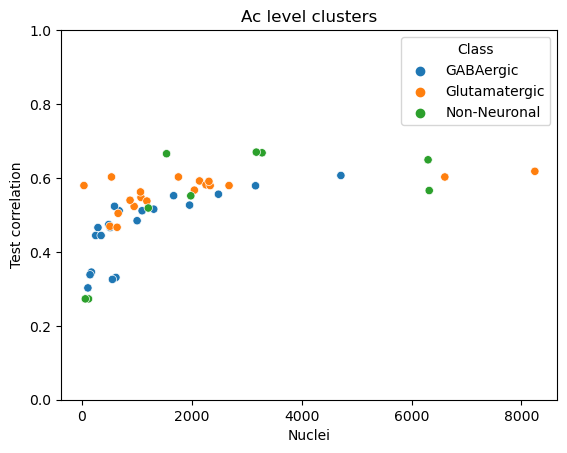
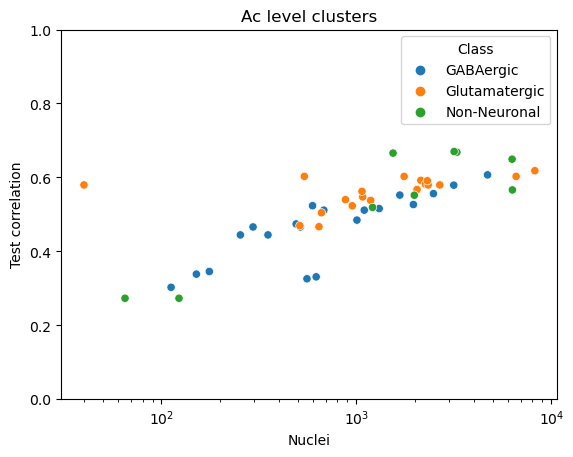
analyse cluster vs nuclei counts

diff --git a/human_atac_classes/analyse_counts.py b/human_atac_classes/analyse_counts.py
@@ -5,15 +5,15 @@ import seaborn as sns
 ## load correlation on the test set for these tracks
 df_corr_test = pd.read_csv('/exports/humgen/idenhond/data/evaluate_correlation/correlation_per_track_test_humanatac.csv')
 df_corr_test = df_corr_test.rename(columns = {'Unnamed: 0' : 'Index old'})
-# print(df_corr_test)
+print(df_corr_test)
 
 df_corr_valid = pd.read_csv('/exports/humgen/idenhond/data/evaluate_correlation/correlation_per_track_valid_humanatac.csv')
 df_corr_valid = df_corr_valid.rename(columns = {'Unnamed: 0' : 'Index old'})
-# print(df_corr_valid)
+print(df_corr_valid)
 
 df_corr_train = pd.read_csv('/exports/humgen/idenhond/data/evaluate_correlation/correlation_per_track_train_humanatac.csv')
 df_corr_train = df_corr_train.rename(columns = {'Unnamed: 0' : 'Index old'})
-# print(df_corr_train)
+print(df_corr_train)
 
 input_file = '/exports/humgen/idenhond/data/basenji_preprocess/human_atac_targets_classes_counts.csv'
 df = pd.read_csv(input_file, sep = ',')
@@ -61,75 +61,77 @@ print(f'Mean correlation Train at Class level: {df_class["Train correlation"].me
 print(f'Mean correlation Train at Sublass level: {df_subclass["Train correlation"].mean():.3f}')
 print(f'Mean correlation Train at AC-cluster level: {df_aclevel["Train correlation"].mean():.3f}')
 
-# fig, ax1 = plt.subplots(figsize=(12,8))
-# sns.barplot(data = df_class, x = 'Class', y = 'Nuclei')
-# ax2 = ax1.twinx()
-# ax2.set_ylim([0, 1])
-# sns.lineplot(data = df_class, x = 'Class', y = 'Test correlation', ax=ax2, marker = 'o', color = 'k')
-# for pos, row in df_class.iterrows():
-#     ax2.annotate(f"{row['Test correlation']:.3f}", (pos, row['Test correlation']*1.06), color = 'k', va='top', ha='center')
-# plt.savefig('/exports/humgen/idenhond/projects/human_atac_classes/Plots/barplot_class.png', bbox_inches='tight')
-# plt.close()
+fig, ax1 = plt.subplots(figsize=(12,8))
+sns.barplot(data = df_class, x = 'Class', y = 'Nuclei')
+ax2 = ax1.twinx()
+ax2.set_ylim([0, 1])
+sns.lineplot(data = df_class, x = 'Class', y = 'Test correlation', ax=ax2, marker = 'o', color = 'k')
+for pos, row in df_class.iterrows():
+    ax2.annotate(f"{row['Test correlation']:.3f}", (pos, row['Test correlation']*1.06), color = 'k', va='top', ha='center')
+plt.savefig('/exports/humgen/idenhond/projects/human_atac_classes/Plots/barplot_class.png', bbox_inches='tight')
+plt.close()
 
-# fig, ax1 = plt.subplots(figsize=(12,8))
-# sns.barplot(data = df_subclass, x = 'Subclass', y = 'Nuclei', hue = 'Class', ax = ax1, alpha = 0.7)
-# ax2 = ax1.twinx()
-# ax2.set_ylim([0, 1])
-# sns.lineplot(data = df_subclass, x = 'Subclass', y = 'Test correlation', ax=ax2, marker = 'o', color = 'k')
-# ax1.tick_params(axis='x', labelrotation = 90)
-# # plt.xticks(rotation = 45, ha = 'right')
-# # ax1.set_xticklabels(ax1.get_xticks(), rotation = 45)
-# # ax1.tick_params(axis='x', labelrotation = 45, ha = 'right')
-# plt.savefig('/exports/humgen/idenhond/projects/human_atac_classes/Plots/barplot_subclass.png', bbox_inches='tight')
-# plt.close()
+fig, ax1 = plt.subplots(figsize=(12,8))
+sns.barplot(data = df_subclass, x = 'Subclass', y = 'Nuclei', hue = 'Class', ax = ax1, alpha = 0.7)
+ax2 = ax1.twinx()
+ax2.set_ylim([0, 1])
+sns.lineplot(data = df_subclass, x = 'Subclass', y = 'Test correlation', ax=ax2, marker = 'o', color = 'k')
+ax1.tick_params(axis='x', labelrotation = 90)
+# plt.xticks(rotation = 45, ha = 'right')
+# ax1.set_xticklabels(ax1.get_xticks(), rotation = 45)
+# ax1.tick_params(axis='x', labelrotation = 45, ha = 'right')
+plt.savefig('/exports/humgen/idenhond/projects/human_atac_classes/Plots/barplot_subclass.png', bbox_inches='tight')
+plt.close()
 
-# fig, ax1 = plt.subplots(figsize=(12,8))
-# # sns.barplot(data = df_aclevel, x = 'Ac-level annotation', y = 'Nuclei') # 5 bars met 2 values
-# sns.barplot(data = df_aclevel, x = 'subclass+aclevel', y = 'Nuclei', hue = 'Class', ax = ax1, alpha = 0.7) 
-# ax2 = ax1.twinx()
-# ax2.set_ylim([0, 1])
-# sns.lineplot(data = df_aclevel, x = 'subclass+aclevel', y = 'Test correlation', ax=ax2, marker = 'o', color = 'k')
-# ax1.tick_params(axis='x', labelrotation = 90)
-# # plt.xticks(rotation = 90, ha = 'left')
-# # ax1.set_xticklabels(ax1.get_xticks(), rotation = 45)
-# # ax1.tick_params(axis='x', labelrotation = 45)
-# # ax1.set_xticklabels(ax1.get_xticks(), ha = 'right')
-# plt.savefig('/exports/humgen/idenhond/projects/human_atac_classes/Plots/barplot_aclevel.png', bbox_inches='tight')
-# plt.close()
+fig, ax1 = plt.subplots(figsize=(12,8))
+# sns.barplot(data = df_aclevel, x = 'Ac-level annotation', y = 'Nuclei') # 5 bars met 2 values
+sns.barplot(data = df_aclevel, x = 'subclass+aclevel', y = 'Nuclei', hue = 'Class', ax = ax1, alpha = 0.7) 
+ax2 = ax1.twinx()
+ax2.set_ylim([0, 1])
+sns.lineplot(data = df_aclevel, x = 'subclass+aclevel', y = 'Test correlation', ax=ax2, marker = 'o', color = 'k')
+ax1.tick_params(axis='x', labelrotation = 90)
+# plt.xticks(rotation = 90, ha = 'left')
+# ax1.set_xticklabels(ax1.get_xticks(), rotation = 45)
+# ax1.tick_params(axis='x', labelrotation = 45)
+# ax1.set_xticklabels(ax1.get_xticks(), ha = 'right')
+plt.savefig('/exports/humgen/idenhond/projects/human_atac_classes/Plots/barplot_aclevel.png', bbox_inches='tight')
+plt.close()
 
-# plt.figure()
-# sns.scatterplot(data = df_class, x = 'Nuclei', y = 'Test correlation', hue = 'Class')
-# plt.ylim(0,1)
-# plt.title('Class clusters')
-# plt.savefig('/exports/humgen/idenhond/projects/human_atac_classes/Plots/scatterplot_class.png', bbox_inches='tight')
-# plt.close()
+plt.figure()
+sns.scatterplot(data = df_class, x = 'Nuclei', y = 'Test correlation', hue = 'Class')
+plt.ylim(0,1)
+plt.title('Class clusters')
+plt.savefig('/exports/humgen/idenhond/projects/human_atac_classes/Plots/scatterplot_class.png', bbox_inches='tight')
+plt.close()
 
-# plt.figure()
-# sns.scatterplot(data = df_subclass, x = 'Nuclei', y = 'Test correlation', hue = 'Class')
-# plt.ylim(0,1)
-# plt.title('Subclass clusters')
-# plt.savefig('/exports/humgen/idenhond/projects/human_atac_classes/Plots/scatterplot_subclass.png', bbox_inches='tight')
-# plt.close()
+plt.figure()
+sns.scatterplot(data = df_subclass, x = 'Nuclei', y = 'Test correlation', hue = 'Class')
+plt.ylim(0,1)
+plt.xscale('log')
+plt.title('Subclass clusters')
+plt.savefig('/exports/humgen/idenhond/projects/human_atac_classes/Plots/scatterplot_subclass.png', bbox_inches='tight')
+plt.close()
 
-# plt.figure()
-# sns.scatterplot(data = df_aclevel, x = 'Nuclei', y = 'Test correlation', hue = 'Class')
-# plt.ylim(0,1)
-# plt.title('Ac level clusters')
-# plt.savefig('/exports/humgen/idenhond/projects/human_atac_classes/Plots/scatterplot_aclevel.png', bbox_inches='tight')
-# plt.close()
+plt.figure()
+sns.scatterplot(data = df_aclevel, x = 'Nuclei', y = 'Test correlation', hue = 'Class')
+plt.ylim(0,1)
+plt.xscale('log')
+plt.title('Ac level clusters')
+plt.savefig('/exports/humgen/idenhond/projects/human_atac_classes/Plots/scatterplot_aclevel.png', bbox_inches='tight')
+plt.close()
 
-# print(df_all['Class'])
-# print(df_all['Subclass'])
-# df_all['Class + Subclass'] = df_all['Class'] + ' ' + df_all['Subclass']
-# # print(df_all['Class + Subclass'])
-# plt.figure()
-# sns.scatterplot(data = df_all, x = 'Nuclei', y = 'Test correlation', hue = 'Subclass', style = 'level')
-# plt.ylim(0,1)
-# plt.xscale('log')
-# plt.title('All clusters')
-# plt.legend(bbox_to_anchor=(1.04, 1), loc="upper left")
-# plt.savefig('/exports/humgen/idenhond/projects/human_atac_classes/Plots/scatterplot_allclusters.png', bbox_inches='tight')
-# plt.close()
+print(df_all['Class'])
+print(df_all['Subclass'])
+df_all['Class + Subclass'] = df_all['Class'] + ' ' + df_all['Subclass']
+# print(df_all['Class + Subclass'])
+plt.figure()
+sns.scatterplot(data = df_all, x = 'Nuclei', y = 'Test correlation', hue = 'Subclass', style = 'level')
+plt.ylim(0,1)
+plt.xscale('log')
+plt.title('All clusters')
+plt.legend(bbox_to_anchor=(1.04, 1), loc="upper left")
+plt.savefig('/exports/humgen/idenhond/projects/human_atac_classes/Plots/scatterplot_allclusters.png', bbox_inches='tight')
+plt.close()
 
 print(df_aclevel['Nuclei'].sum())
 print(df_subclass['Nuclei'].sum())
